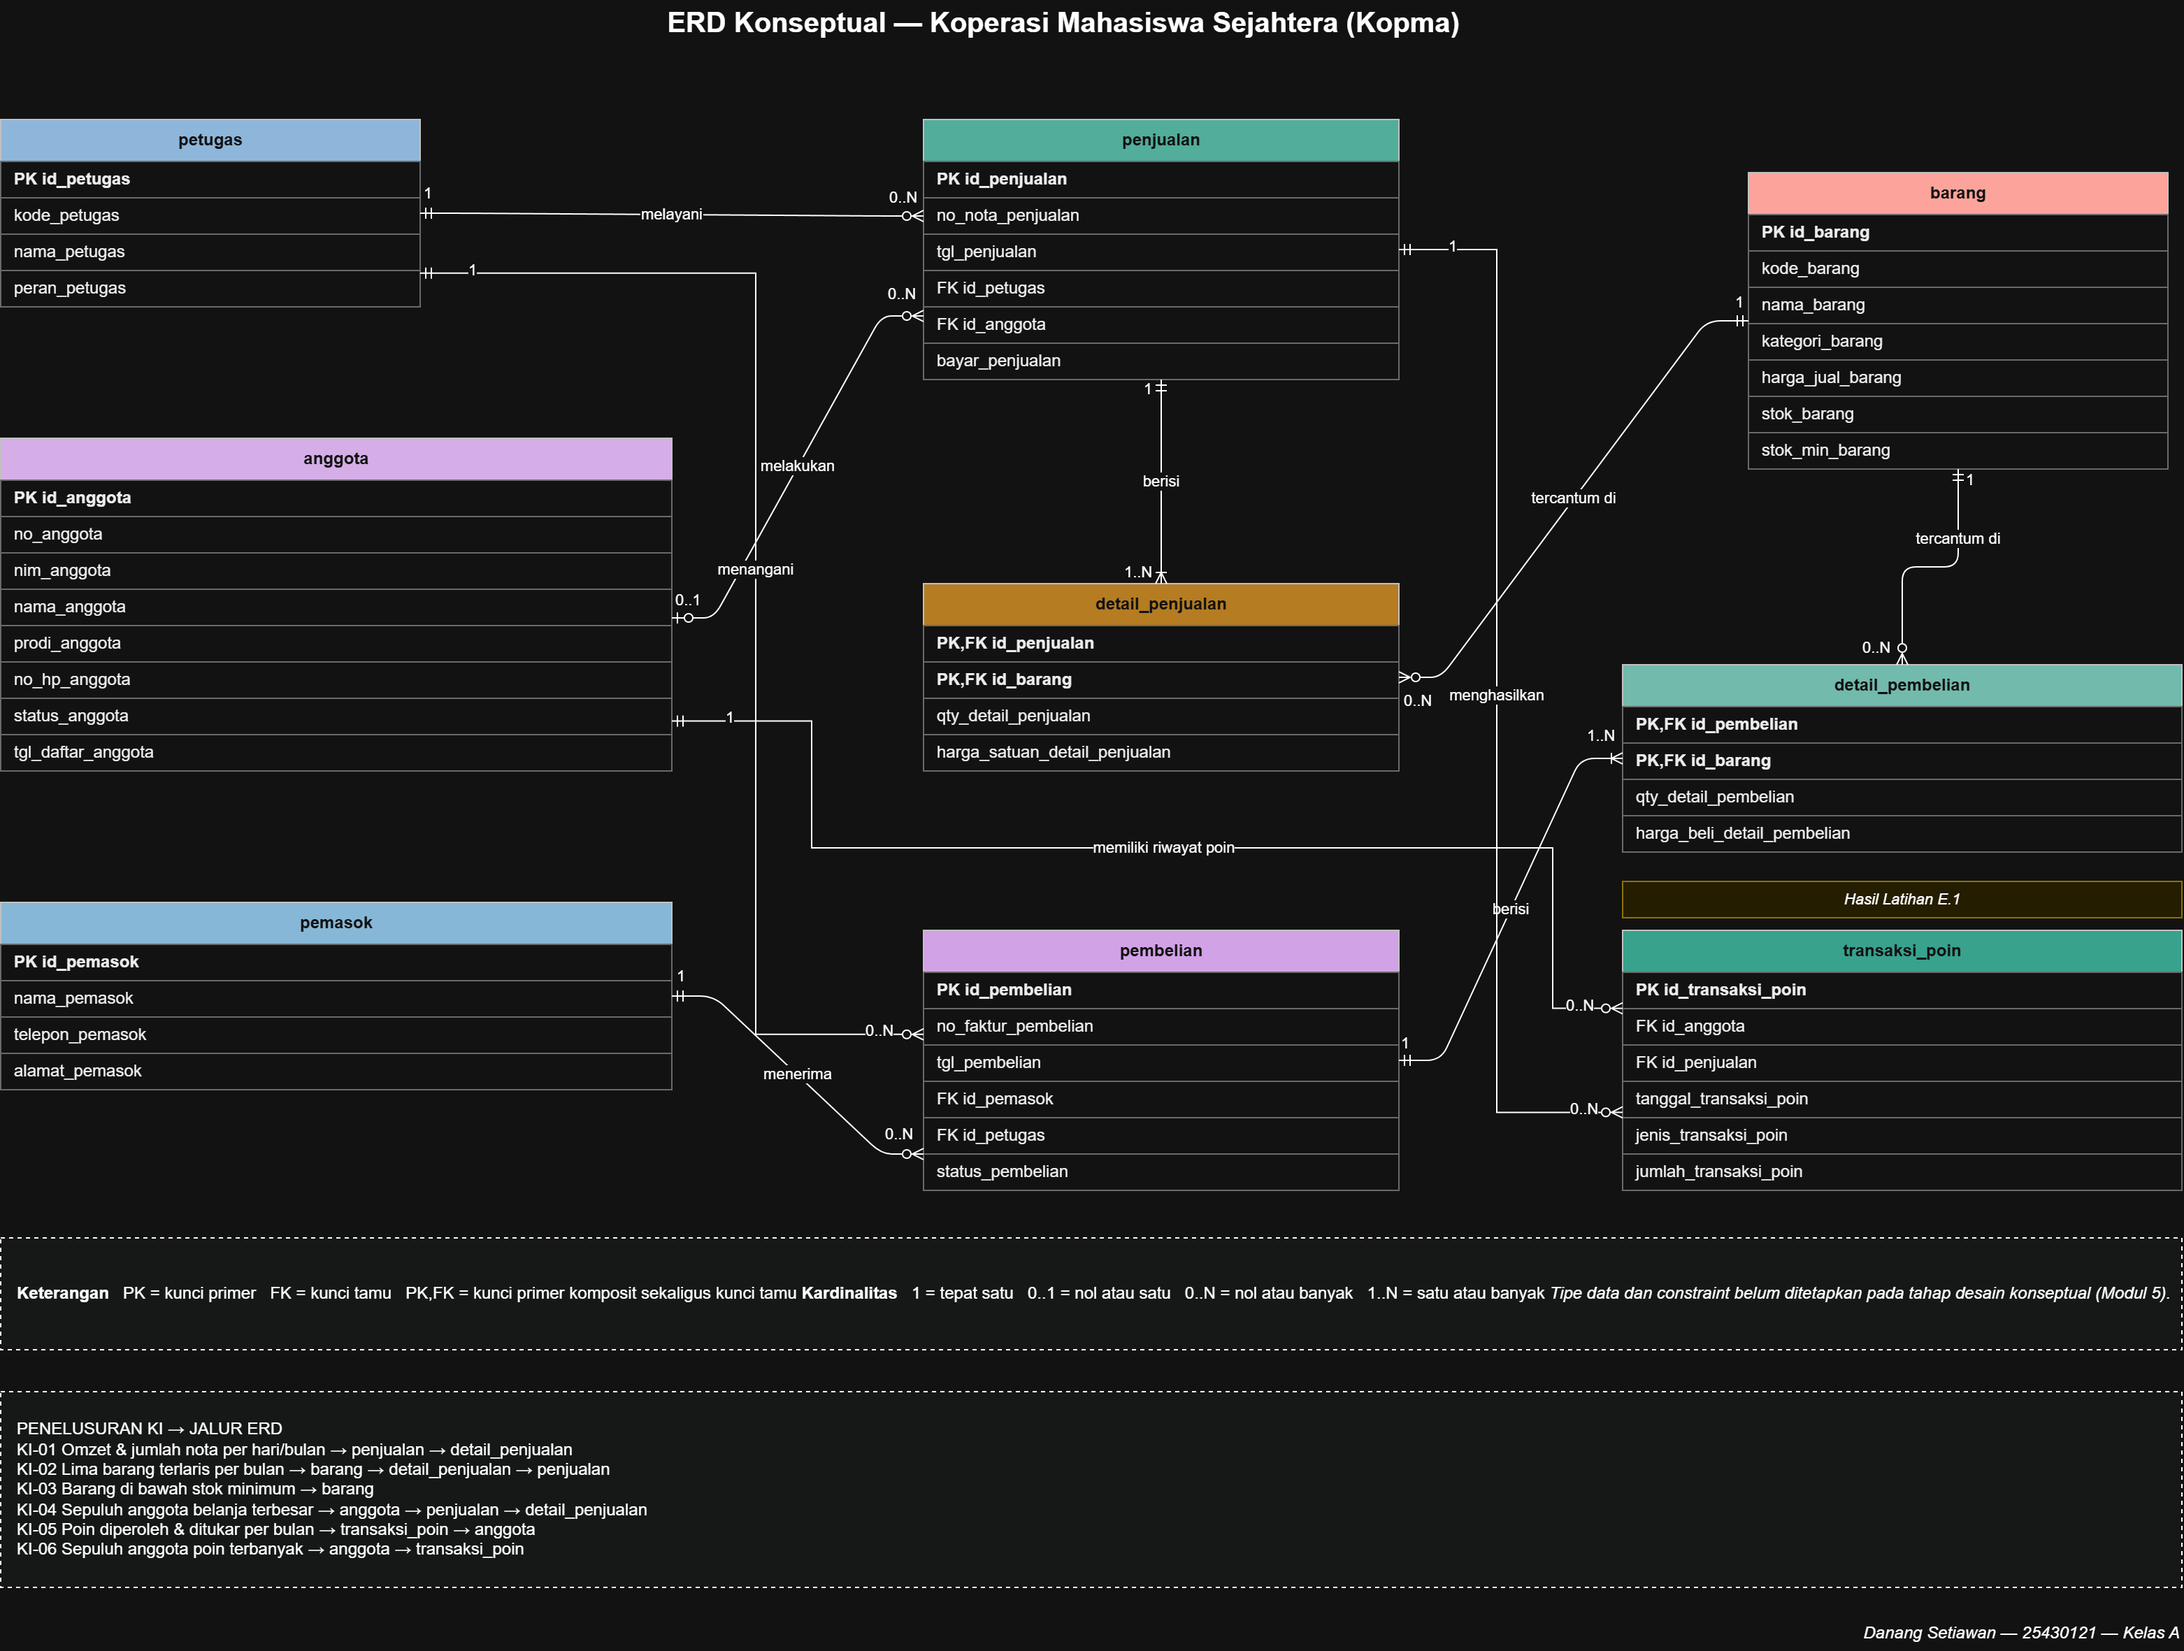
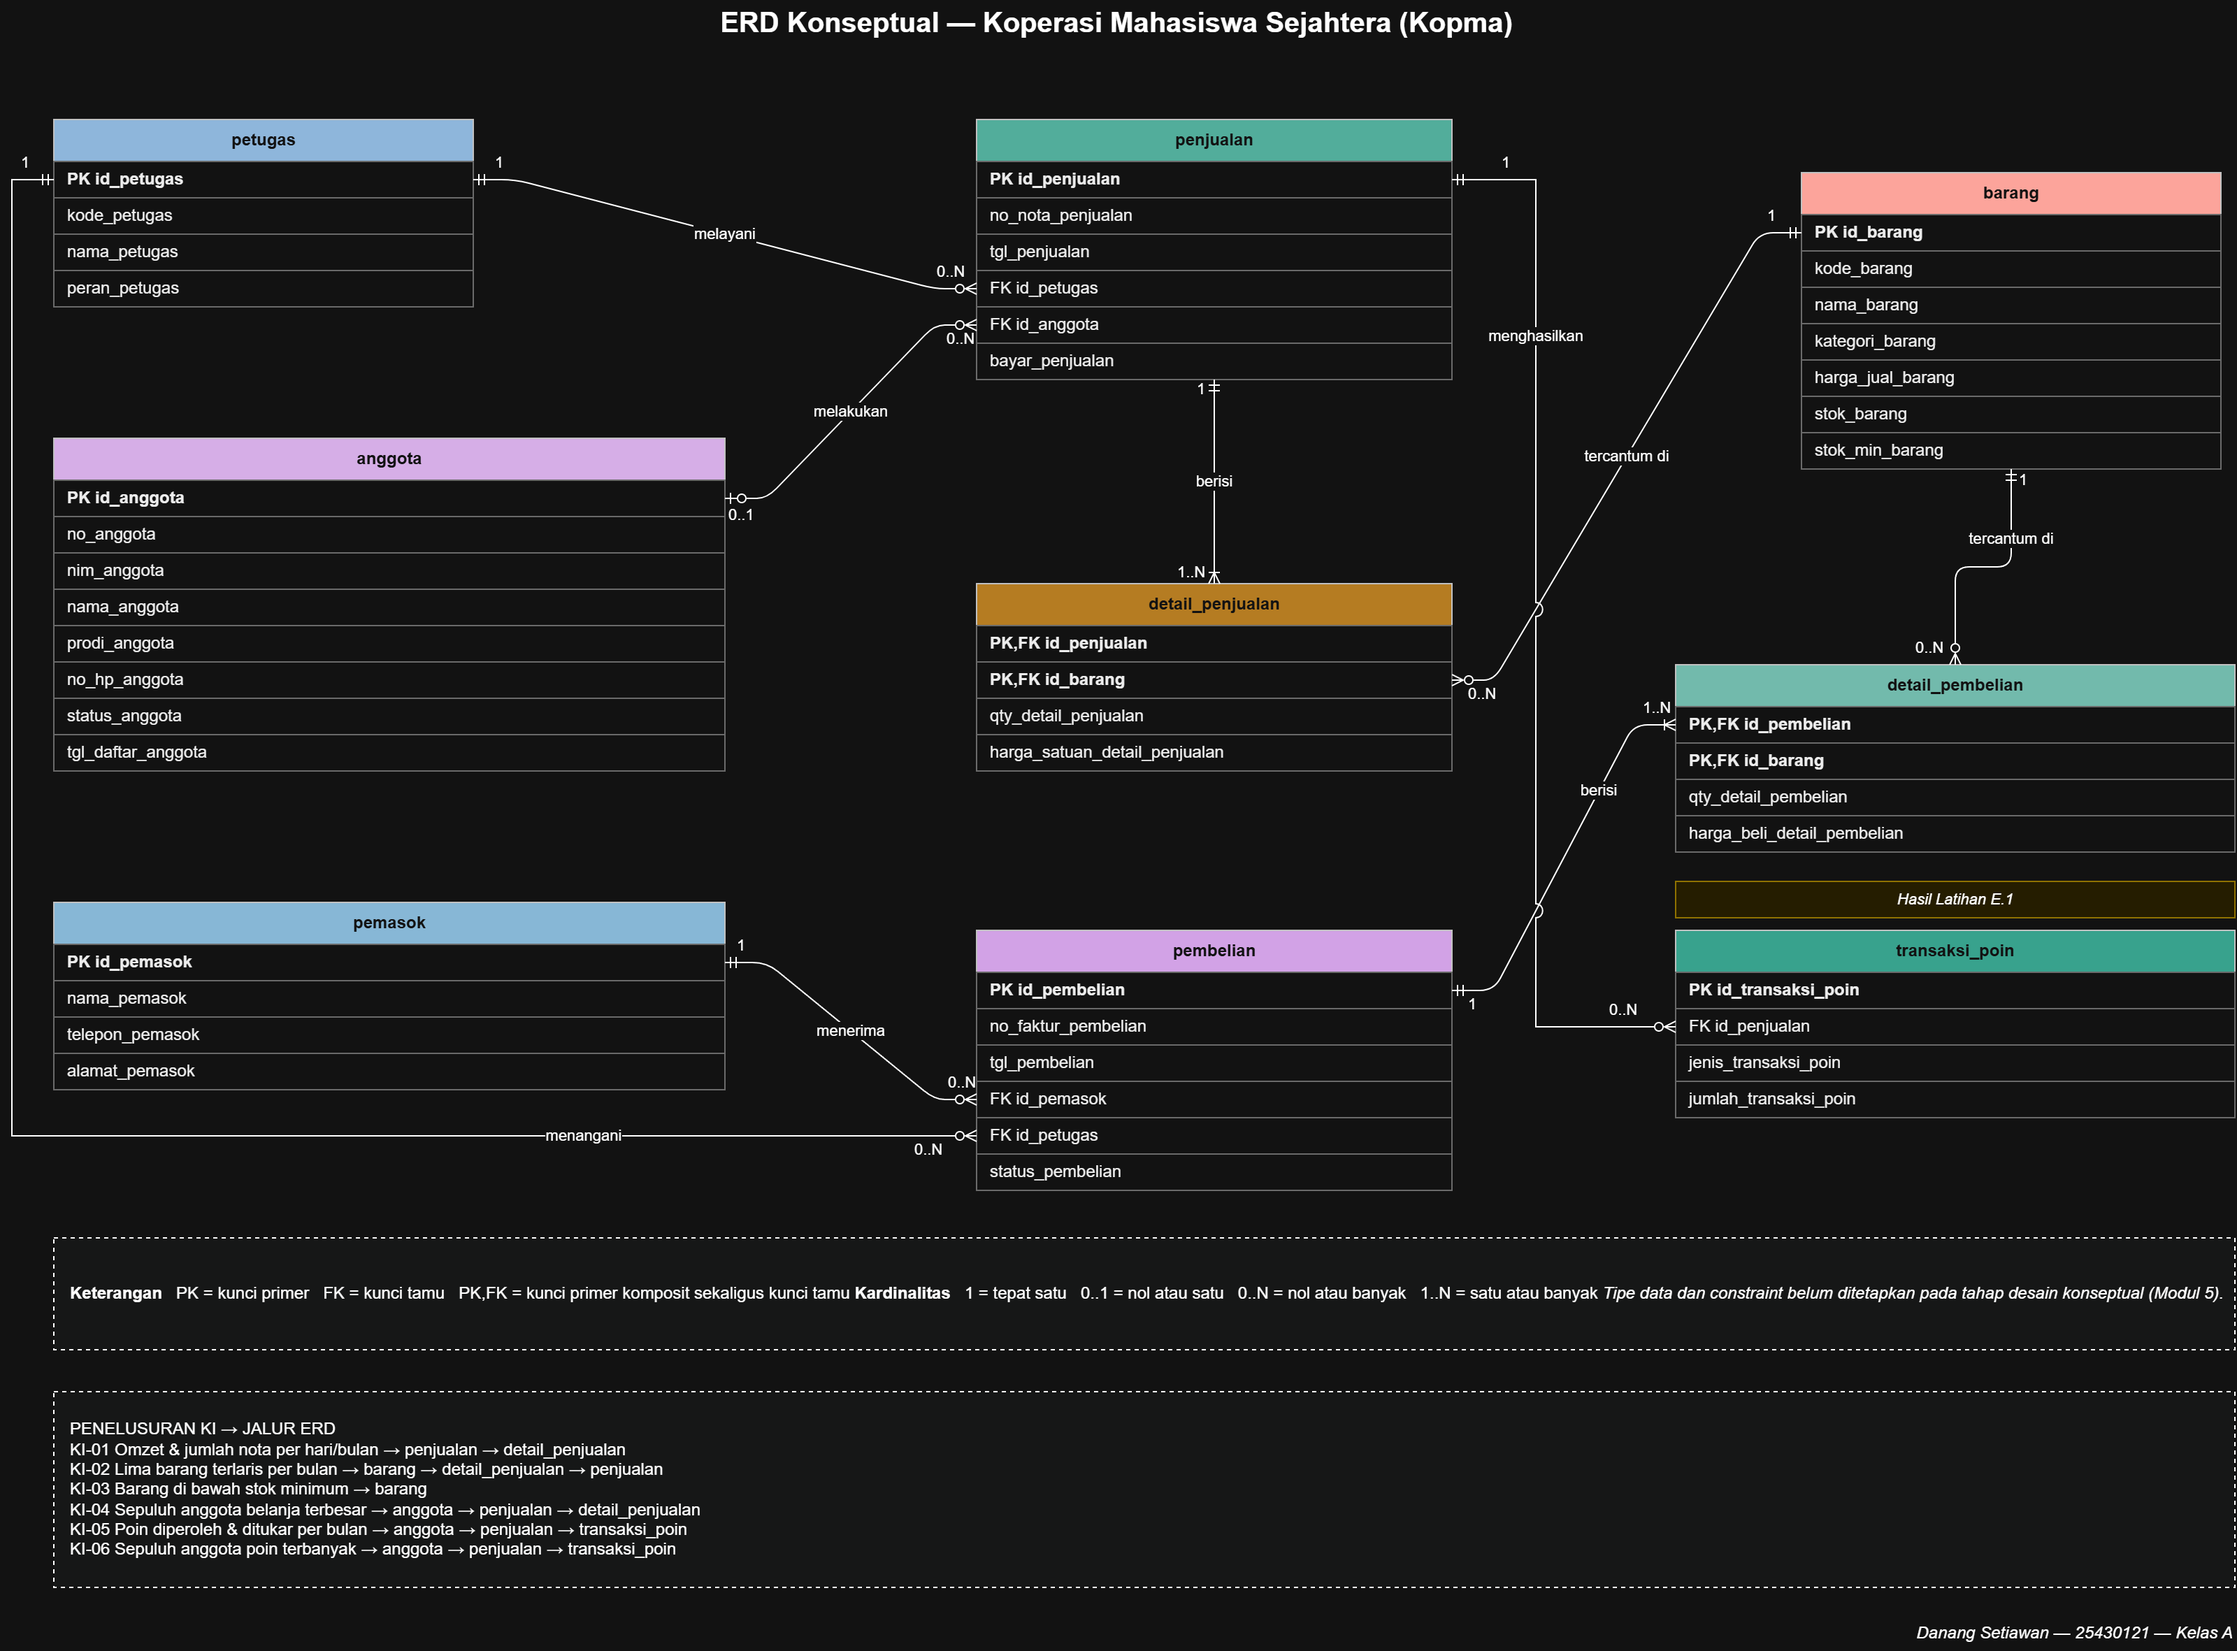
p03: perbaikan latihan E1 E2 dan garis relasi erd kopma
E1: transaksi_poin hanya terhubung ke penjualan (relasi ganda ke anggota dihapus), garis ditarik dari PK ke FK, jalur KI-05/KI-06 diperbarui. E2: kardinalitas sisi barang 1..N (AB-01), garis tersambung ke barang, kotak atribut yang hilang dan legenda. Garis relasi D.3 dirapikan dari PK ke FK. PNG diekspor ulang dan gambar E1/E2 ditambahkan ke laporan.

diff --git a/laporan/p03_laporan_25430121.md b/laporan/p03_laporan_25430121.md
@@ -35,14 +35,18 @@ Dua baris terakhir tidak tercantum pada Tabel 3.2 buku. Relasi `barang tercantum
 ### D.3 Menggambar ERD
 ### D.4 Memvalidasi ERD terhadap kebutuhan informasi
 
+Saya menelusuri jalur hubungan pada ERD untuk memastikan setiap kebutuhan informasi dapat dijawab oleh entitas yang tersedia. Pemeriksaan awal menunjukkan bahwa KI-05 dan KI-06 belum dapat ditelusuri karena ERD belum memiliki entitas riwayat poin. Setelah mengerjakan Latihan E.1, saya menambahkan transaksi_poin beserta relasinya, lalu memperbarui jalur kedua kebutuhan informasi tersebut.
+
 | Kode | Kebutuhan informasi | Jalur di ERD |
 |---|---|---|
 | KI-01 | Omzet dan jumlah nota per hari dan per bulan | penjualan → detail_penjualan |
 | KI-02 | Lima barang terlaris per bulan berdasarkan qty | barang → detail_penjualan → penjualan |
 | KI-03 | Barang dengan stok di bawah batas minimum | barang |
 | KI-04 | Sepuluh anggota dengan belanja terbesar per bulan | anggota → penjualan → detail_penjualan |
-| KI-05 | Jumlah poin diperoleh dan ditukar per bulan | Belum tersedia — ditambahkan pada Latihan E.1 Modul 3 |
-| KI-06 | Sepuluh anggota dengan perolehan poin terbanyak per bulan | Belum tersedia — ditambahkan pada Latihan E.1 Modul 3 |
+| KI-05 | Jumlah poin yang diperoleh dan ditukar anggota per bulan | anggota → penjualan → transaksi_poin |
+| KI-06 | Sepuluh anggota dengan perolehan poin terbanyak per bulan | anggota → penjualan → transaksi_poin |
+
+
 
 ## 4. Jawaban Titik Analisis
 
@@ -73,7 +77,58 @@ Keputusan tersebut perlu dicatat sebagai aturan bisnis baru karena informasi pet
 ## 5. Hasil Latihan dan Modifikasi
 
 ### E.1 Poin loyalitas pada ERD
+
+Saya memilih membuat entitas riwayat **transaksi_poin**, bukan menyimpan saldo poin sebagai atribut pada anggota. Keputusan ini diambil karena KI-05 membutuhkan jumlah poin yang diperoleh dan ditukar anggota per bulan, sedangkan KI-06 membutuhkan daftar anggota dengan perolehan poin terbanyak per bulan. Jika hanya saldo terakhir yang disimpan pada anggota, riwayat perolehan dan penukaran pada bulan sebelumnya tidak dapat ditelusuri dengan tepat.
+
+| Pertimbangan | Atribut poin pada anggota | Entitas riwayat transaksi_poin |
+|---|---|---|
+| KI-05: poin diperoleh dan ditukar per bulan | Tidak dapat dijawab karena hanya saldo terakhir yang tersimpan | Dapat dijawab dari jenis dan jumlah setiap transaksi poin |
+| KI-06: anggota dengan perolehan poin terbanyak per bulan | Tidak dapat dijawab karena perolehan bulan lalu tertimpa saldo baru | Dapat dijawab dengan menjumlahkan perolehan per anggota per bulan |
+| AB-10: setiap penukaran dicatat sebagai transaksi | Tidak terpenuhi karena penukaran hanya mengurangi angka saldo | Terpenuhi karena setiap penukaran 50 poin menjadi satu baris |
+
+Saldo poin anggota merupakan atribut turunan karena nilainya dapat dihitung dari jumlah perolehan dikurangi jumlah penukaran. Karena itu saldo tidak digambar sebagai atribut anggota, sesuai keputusan pada dokumen kebutuhan data Modul 2. Pemeriksaan saldo minimal 50 poin pada AB-09 dilakukan dengan menghitung saldo tersebut dari riwayat.
+
+Entitas transaksi_poin memiliki atribut id_transaksi_poin sebagai kunci primer, id_penjualan sebagai kunci tamu, serta jenis_transaksi_poin dan jumlah_transaksi_poin untuk mencatat apakah poin diperoleh atau ditukar dan berapa jumlahnya. Jumlah poin tetap disimpan meskipun perolehan dapat dihitung dari total belanja, karena aturan poin dapat berubah dan riwayat lama tidak boleh ikut berubah, sama seperti alasan AB-04.
+
+**Penyempurnaan dari kamus data Modul 2.** Kamus data awal masih mencantumkan id_anggota dan tanggal_transaksi_poin pada transaksi poin. Kedua atribut tersebut tidak saya masukkan ke ERD karena setiap perolehan dan penukaran poin terjadi pada satu nota (AB-07 dan PB-08), sedangkan nota sudah menyimpan anggota pada id_anggota dan tanggal pada tgl_penjualan. Jika keduanya disimpan lagi, ERD memiliki dua jalur menuju anggota, yaitu anggota → penjualan → transaksi_poin dan anggota → transaksi_poin, yang dapat saling bertentangan, misalnya poin tercatat milik anggota yang berbeda dari pemilik nota.
+
+Relasi yang saya tambahkan pada ERD:
+
+| Relasi | Sisi kiri | Sisi kanan | Dasar |
+|---|---|---|---|
+| penjualan menghasilkan transaksi_poin | tepat satu penjualan | nol atau banyak transaksi_poin | AB-07, AB-10, PB-08 |
+
+Sisi penjualan bernilai tepat satu karena perolehan poin dihitung dari total belanja satu nota (AB-07), sedangkan penukaran poin dilakukan saat pembayaran nota (PB-08). Sisi transaksi_poin bernilai nol atau banyak karena nota pembeli umum atau nota yang tidak memenuhi syarat poin tidak menghasilkan transaksi poin (AB-02, AB-07). Sebaliknya, satu nota dapat mencatat perolehan sekaligus beberapa penukaran, karena setiap penukaran 50 poin dicatat sebagai satu transaksi (AB-10). Aturan bahwa transaksi poin hanya boleh dicatat pada nota milik anggota aktif (AB-07, AB-09) tidak dapat dijaga oleh struktur tabel saja, sehingga perlu dijaga dengan transaksi, seperti jawaban Titik Analisis 2.
+
+Perubahan ini ditandai pada ERD dengan label **Hasil Latihan E.1**. KI-05 dan KI-06 sekarang dapat ditelusuri melalui jalur anggota → penjualan → transaksi_poin: anggota diambil dari id_anggota pada penjualan, bulan dari tgl_penjualan, sedangkan jenis dan jumlah poin dari transaksi_poin.
+
+![Entitas transaksi_poin hasil Latihan E.1 pada ERD Kopma](img/p03_e1_poin_loyalitas_25430121.png)
+
+*Gambar E.1 Entitas transaksi_poin dan relasi penjualan menghasilkan transaksi_poin pada ERD Kopma.*
+
 ### E.2 Relasi banyak-ke-banyak langsung
+
+Saya mencoba menghubungkan Penjualan dan Barang secara langsung dengan relasi banyak-ke-banyak tanpa entitas asosiatif Detail penjualan. Gambarnya ada pada halaman **E2-banyak-ke-banyak** di berkas p03_erd_kopma_25430121.drawio. Satu penjualan memuat satu atau banyak barang (AB-01), sedangkan satu barang dapat dimuat di nol atau banyak penjualan. Kardinalitas ini sama dengan gabungan relasi penjualan berisi detail_penjualan (1..N) dan barang tercantum di detail_penjualan (0..N) pada ERD utama.
+
+![Relasi penjualan dan barang sebagai banyak-ke-banyak langsung](img/p03_e2_banyak_ke_banyak_25430121.png)
+
+*Gambar E.2 Relasi penjualan–barang tanpa entitas asosiatif detail_penjualan.*
+
+Dari percobaan ini, saya menemukan bahwa informasi yang melekat pada setiap pasangan penjualan dan barang tidak dapat dicatat. Relasi banyak-ke-banyak tidak dapat disimpan langsung dalam tabel relasional dan tidak menyediakan tempat bagi atribut milik relasi, sehingga ada dua elemen data penting yang hilang:
+
+1. **qty_detail_penjualan** — Tanpa elemen ini, sistem tidak dapat mencatat jumlah barang yang dibeli pada setiap transaksi. Akibatnya, KI-02, yaitu lima barang terlaris per bulan berdasarkan kuantitas, tidak dapat dijawab. Pengurangan stok juga tidak dapat dicocokkan dengan riwayat penjualan, sehingga AB-03 tidak dapat diperiksa.
+
+2. **harga_satuan_detail_penjualan** — Tanpa elemen ini, sistem tidak dapat menyimpan harga satuan yang berlaku ketika transaksi terjadi, sehingga AB-04 tidak terpenuhi. Jika harga barang berubah, nilai transaksi lama ikut dihitung dengan harga terbaru. Akibatnya, omzet pada KI-01 dan jumlah belanja anggota pada KI-04 tidak dapat dihitung dengan benar.
+
+Karena qty dan harga satuan hilang, subtotal dan total nota sebagai atribut turunan juga tidak dapat dihitung. Akibatnya, diskon anggota 5% (AB-02) dan perolehan poin dari total belanja (AB-07) tidak dapat diperiksa.
+
+KI-01 masih dapat menggunakan data Penjualan untuk menghitung jumlah nota per hari atau per bulan, tetapi bagian omzetnya tidak dapat dihitung tanpa data detail transaksi.
+
+KI-03, yaitu daftar barang dengan stok di bawah batas minimum, masih dapat dijalankan karena stok_barang dan stok_min_barang tetap tersedia pada entitas Barang. Namun, kebenaran stok tersebut tidak dapat diperiksa ulang dari riwayat penjualan karena qty setiap nota tidak tercatat.
+
+Riwayat poin untuk KI-05 dan KI-06 tetap tersimpan pada transaksi_poin. Namun, jumlah poin perolehan tidak dapat diverifikasi karena AB-07 menghitung poin dari total belanja, sedangkan total belanja tidak dapat dihitung tanpa qty dan harga satuan.
+
+Berdasarkan percobaan ini, saya menyimpulkan bahwa Detail penjualan tetap diperlukan sebagai entitas asosiatif untuk menyimpan qty_detail_penjualan dan harga_satuan_detail_penjualan pada setiap pasangan penjualan dan barang.
 
 ## 6. Tugas Mandiri: Milestone Proyek 3
 
